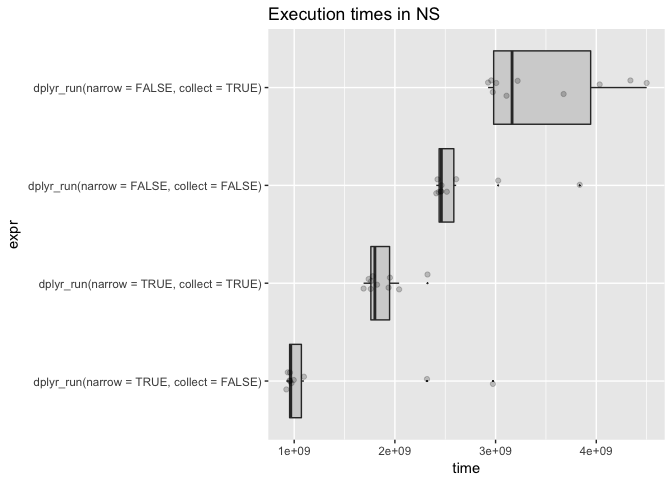
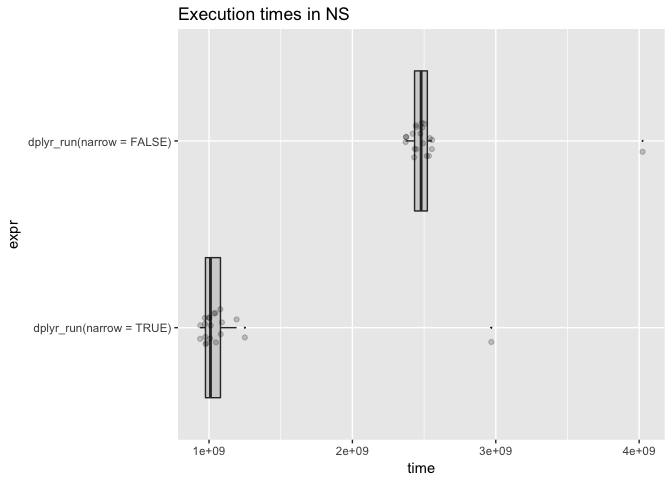
edit

diff --git a/extras/NarrowEffect.md b/extras/NarrowEffect.md
@@ -12,13 +12,13 @@ The idea behind the advice is: working with fewer columns makes for quicker quer
 
 Some wonder is this really an issue or is it something one can ignore in the hope the downstream query optimizer fixes the problem. In this note we will show the effect is real.
 
-Let's set up our experiment. The data is a larger version of the problem from ["Let’s Have Some Sympathy For The Part-time R User"](http://www.win-vector.com/blog/2017/08/lets-have-some-sympathy-for-the-part-time-r-user/). We have expanded the number of subjects to 1e+05 and added 1000 irrelevant columns to the data store. We define a new function that uses `dplyr` and `Sparklyr` to compute the diagnoses. We can turn on and off if the table is first limited to columns of interest and if the results are brought back to `R`.
+Let's set up our experiment. The data is a larger version of the problem from ["Let’s Have Some Sympathy For The Part-time R User"](http://www.win-vector.com/blog/2017/08/lets-have-some-sympathy-for-the-part-time-r-user/). We have expanded the number of subjects to 100000 and added 1000 irrelevant columns to the example. We define a new function that uses `dplyr` and `Sparklyr` to compute the diagnoses. We vary if the table is first limited to columns of interest and if the results are brought back to `R`.
 
 ``` r
 scale <- 0.237
 
 
-dplyr_run <- function(narrow, collect) {
+dplyr_run <- function(narrow, collect = FALSE) {
   dR <- dT
   if(narrow) {
     dR <- dR %>%
@@ -44,7 +44,7 @@ dplyr_run <- function(narrow, collect) {
 }
 
 
-head(dplyr_run(narrow=FALSE, collect=FALSE))
+head(dplyr_run(narrow=FALSE))
 ```
 
     ## # Source: lazy query [?? x 3]
@@ -52,23 +52,37 @@ head(dplyr_run(narrow=FALSE, collect=FALSE))
     ## # Ordered by: probability, surveyCategory, subjectID
     ##   subjectID diagnosis           probability
     ##       <int> <chr>                     <dbl>
-    ## 1         1 positive re-framing       0.766
+    ## 1         1 withdrawal behavior       0.559
     ## 2         2 withdrawal behavior       0.500
-    ## 3         3 withdrawal behavior       0.869
-    ## 4         4 positive re-framing       0.616
-    ## 5         5 positive re-framing       0.671
-    ## 6         6 withdrawal behavior       0.671
+    ## 3         3 positive re-framing       0.616
+    ## 4         4 positive re-framing       0.559
+    ## 5         5 withdrawal behavior       0.616
+    ## 6         6 positive re-framing       0.869
+
+``` r
+head(dplyr_run(narrow=TRUE))
+```
+
+    ## # Source: lazy query [?? x 3]
+    ## # Database: spark_connection
+    ## # Ordered by: probability, surveyCategory, subjectID
+    ##   subjectID diagnosis           probability
+    ##       <int> <chr>                     <dbl>
+    ## 1         1 withdrawal behavior       0.559
+    ## 2         2 withdrawal behavior       0.500
+    ## 3         3 positive re-framing       0.616
+    ## 4         4 positive re-framing       0.559
+    ## 5         5 withdrawal behavior       0.616
+    ## 6         6 positive re-framing       0.869
 
 We can get timings for variations of the function:
 
 ``` r
 library("microbenchmark")
 
-timings <- microbenchmark(dplyr_run(narrow=FALSE, collect=TRUE), 
-                          dplyr_run(narrow=TRUE, collect=TRUE),
-                          dplyr_run(narrow=FALSE, collect=FALSE), 
-                          dplyr_run(narrow=TRUE, collect=FALSE),
-                          times = 10)
+timings <- microbenchmark(dplyr_run(narrow=FALSE), 
+                          dplyr_run(narrow=TRUE),
+                          times = 20)
 ```
 
 And then present the results:
@@ -78,16 +92,12 @@ print(timings)
 ```
 
     ## Unit: milliseconds
-    ##                                        expr       min        lq     mean
-    ##   dplyr_run(narrow = FALSE, collect = TRUE) 2925.5333 2972.3679 3473.751
-    ##    dplyr_run(narrow = TRUE, collect = TRUE) 1689.1242 1760.5136 1880.902
-    ##  dplyr_run(narrow = FALSE, collect = FALSE) 2411.0247 2433.8865 2663.276
-    ##   dplyr_run(narrow = TRUE, collect = FALSE)  922.0074  953.3301 1308.638
-    ##     median       uq      max neval
-    ##  3163.6455 4033.623 4500.529    10
-    ##  1801.2858 1950.620 2323.872    10
-    ##  2461.4996 2608.460 3835.593    10
-    ##   965.9782 1096.713 2973.819    10
+    ##                       expr       min        lq     mean   median       uq
+    ##  dplyr_run(narrow = FALSE) 2371.2845 2432.6255 2545.488 2479.240 2526.328
+    ##   dplyr_run(narrow = TRUE)  937.8512  974.4722 1128.068 1010.134 1080.414
+    ##       max neval
+    ##  4023.869    20
+    ##  2968.788    20
 
 ``` r
 tdf <- as.data.frame(timings)
@@ -106,12 +116,8 @@ WVPlots::ScatterBoxPlotH(tdf, "time", "expr",
 
 ![](NarrowEffect_files/figure-markdown_github/present-1.png)
 
-Notice the times where we have not by-hand narrowed the table are indeed much slower.
+Notice the times where we have not per-narrowed the table are indeed much slower.
 
 The advice is confirmed: narrow to the columns of interest early in your analysis.
 
-Narrowing to the exact columns used can be difficult: it can involve inspecting an arbitrarily long pipeline for column uses. That is part of why we are developing a new `R` query generator that does just that: [`rquery`](https://winvector.github.io/rquery/).
-
-``` r
-sparklyr::spark_disconnect(my_db)
-```
+Of course, narrowing to the exact columns used can be difficult: it can involve inspecting an arbitrarily long pipeline for column uses. That is part of why we are developing a new `R` query generator that automates that procedure: [`rquery`](https://winvector.github.io/rquery/).
